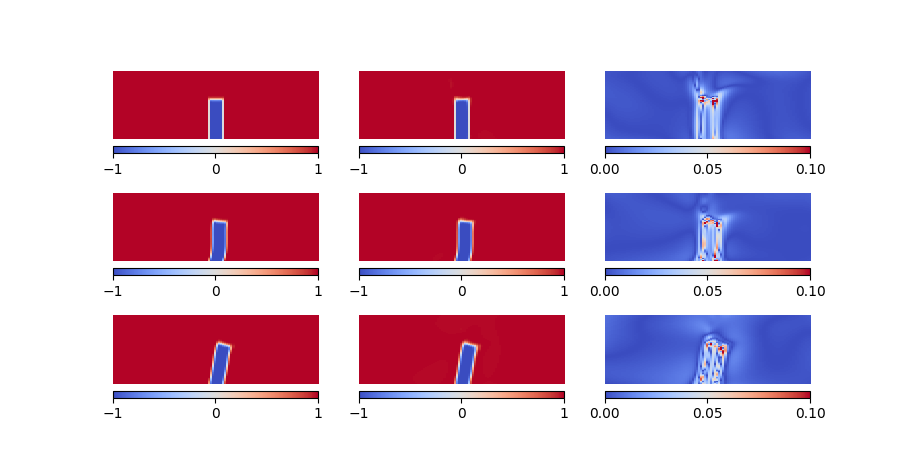
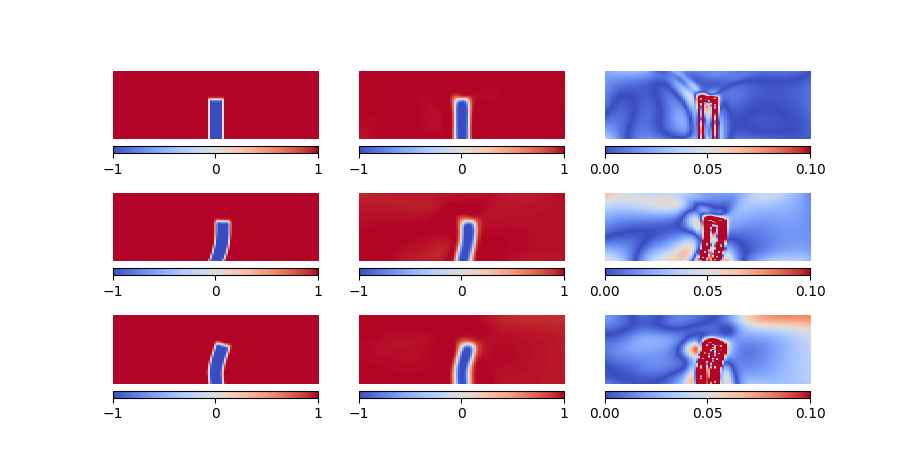
.

diff --git a/Thrombus/Plot/lmd_comp/fig_10.py b/Thrombus/Plot/lmd_comp/fig_10.py
@@ -58,12 +58,12 @@ def main():
     device = torch.device(f"cuda:{0}" if torch.cuda.is_available() else "cpu")
     print(device, flush=True)
     lr = 0.001
-    model_path = '../../Inv_L/test_17/CheckPts/model_chkpts.pt'
+    model_path = '../../Inv_L/test_1/CheckPts/model_chkpts.pt'
 
     file_start = 0
-    file_end = 10
+    file_end = 20
     dt = 0.06
-    t_gap = 4
+    t_gap = 6
 
     num_x1 = 100
     num_x2 = 100
@@ -85,8 +85,8 @@ def main():
     y_data = np.zeros((6, file_end-file_start, num_x1, num_x2))
     t_step = 0
     for file_id in range(file_start, file_end):
-        name_u = '../../../Data/CH/phase_field_xiaoning/Lmd_e_10_K_001/dat/half' + str(file_id) + '.dat'
-        name_phi = '../../../Data/CH/phase_field_xiaoning/Lmd_e_10_K_001/dat_phase/halfp' + str(file_id) + '.dat'
+        name_u = '../../../Data/CH/phase_field_xiaoning/Lmd_e_10/dat/half' + str(file_id) + '.dat'
+        name_phi = '../../../Data/CH/phase_field_xiaoning/Lmd_e_10/dat_phase/halfp' + str(file_id) + '.dat'
         data_u = np.loadtxt(name_u)
         data_phi = np.loadtxt(name_phi)
 

diff --git a/Thrombus/Inv_L/test_23/test.m b/Thrombus/Inv_L/test_23/test.m
@@ -14,4 +14,4 @@ figure()
 semilogy(loss)
 
 min(loss)
-lmd(find(loss == min(loss)))
+lmd(end)

diff --git a/Thrombus/Inv_L/test_24/test.m b/Thrombus/Inv_L/test_24/test.m
@@ -14,4 +14,4 @@ figure()
 semilogy(loss)
 
 min(loss)
-lmd(find(loss == min(loss)))
+lmd(end)

diff --git a/Thrombus/Inv_L/test_25/test.m b/Thrombus/Inv_L/test_25/test.m
@@ -14,4 +14,4 @@ figure()
 semilogy(loss)
 
 min(loss)
-lmd(find(loss == min(loss)))
+lmd(end)

diff --git a/Thrombus/Inv_L/test_26/test.m b/Thrombus/Inv_L/test_26/test.m
@@ -14,4 +14,4 @@ figure()
 semilogy(loss)
 
 min(loss)
-lmd(find(loss == min(loss)))
+lmd(end)
